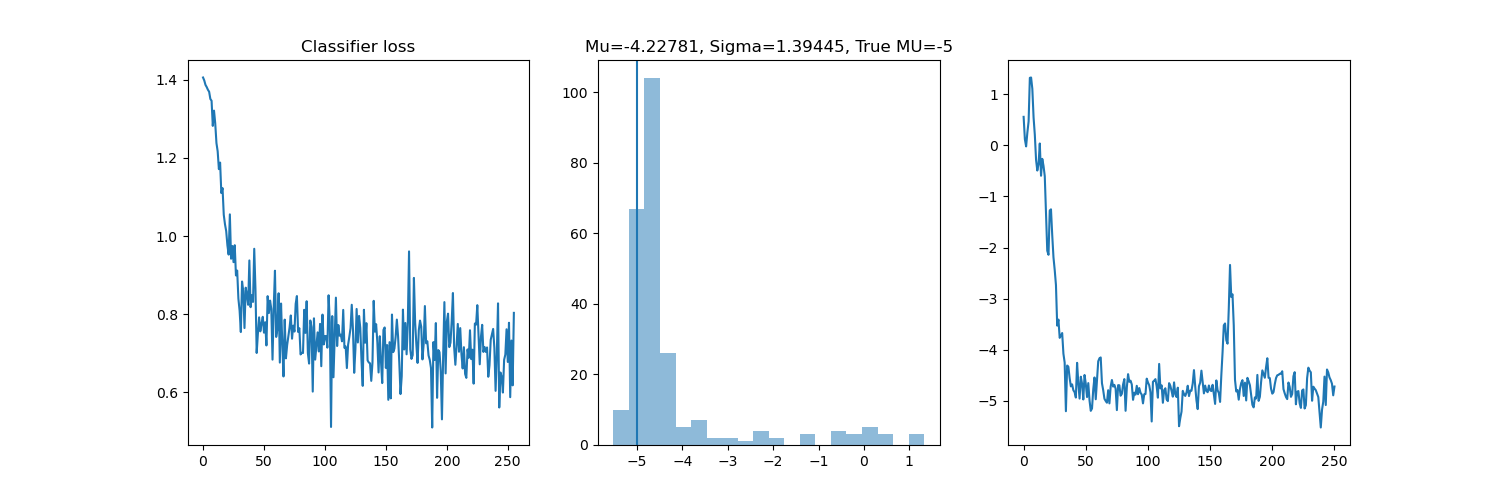
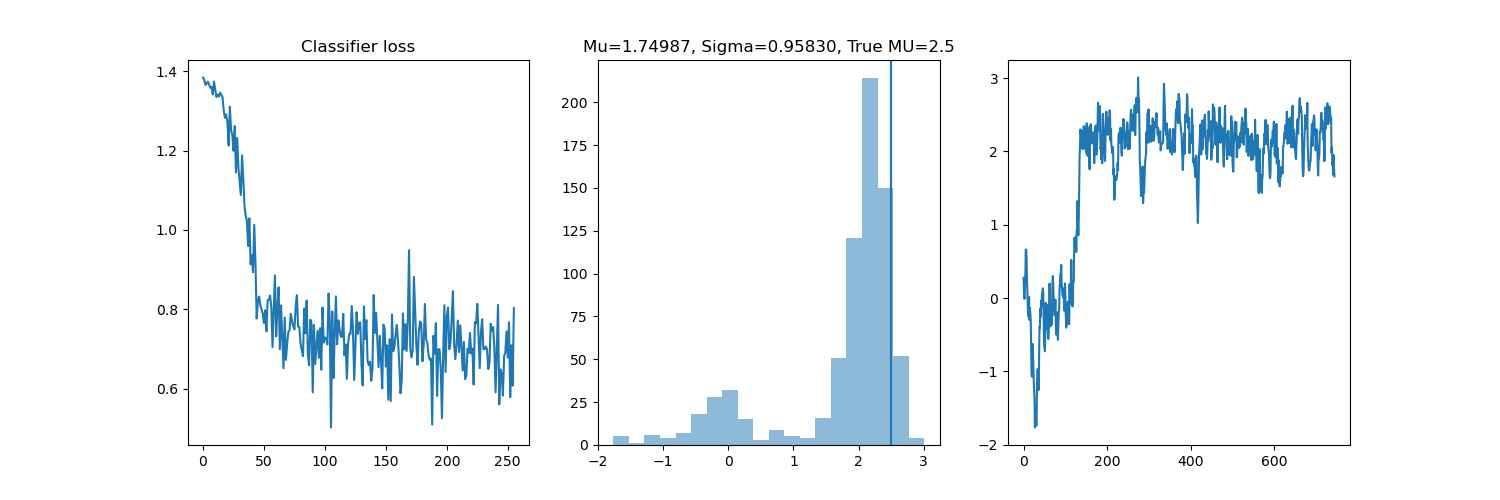
u: update

diff --git a/content/posts/sbi.md b/content/posts/sbi.md
@@ -3,8 +3,10 @@ title: Simulation Based Inference
 date : 2023-10-31
 tags : [sbi]
 draft: true
+categories: [
+    "Machine Learning",
+    ]
 ---
-
 
 
 ## Simulation Based Inference
@@ -16,15 +18,15 @@ In this context, the machine is called a simulator, the configuration is called 
 
 
 ### Problem setup
-There are four components in the problem of **Simulation Based Inference** (SBI), namely the simulator, the parameters, the latent variables, and the observations. The simulator implicitly define the statistical model \\(p(x | \theta) = \int_z\\)
+There are four components in the problem of **SBI**, namely the simulator, the parameters, the latent variables, and the observations. The simulator implicitly define the statistical model \\(p(x | \theta) = \int_z{p(x, z | \theta) dz}\\), this quantity not just intractable but also unknown.
 
 
-## Likelihood Ratio Estimation
+## Likelihood-free MCMC with Amortized Ratio Estimator
 
 Likelihood ratio is defined as the ratio between the likelihood of the observation between two different hypothesis:
 
 $$
-r(x | \theta_0, \theta_1) = \frac{p(x | \theta_0)}{p(x|\theta_1)}
+r(x | \theta_0, \theta_1) = \frac{p(\mathbf{x} | \theta_0)}{p(\mathbf{x}|\theta_t)}
 $$
 
 This quantity then can be used in various methods to draw sample from a distribution. In the paper, the author mention three sampling methods, namely **Markov Chain Monte Carlo**, **Metropolis-Hasting**, and HMC. In the following section, I am briefly summarizing those methods.
@@ -33,17 +35,39 @@ This quantity then can be used in various methods to draw sample from a distribu
 
 #### Markov Chain Monte Carlo (MCMC)
 
-In MCMC sampling method, we assumed to have access to likelihood function \\(p(x)\\). To sample \\(x\\), we use a symmetric proposal distribution  \\( q(x_t | x_{t-1}) = q(x_{t-1} | x_t)\\)
+We want to sample from \\(p(\theta | \mathbf{x})\\) using MCMC, we need this quantity
+
+$$
+\begin{equation}
+\begin{aligned}
+    \frac{p(\theta | \mathbf{x} )}{p(\theta_t| \mathbf{x})} = 
+    \frac{
+        p(\theta)p(\mathbf{x} | \theta)/p(\mathbf{x})
+    }{
+        p(\theta_t)p(\mathbf{x} | \theta_t)/p(\mathbf{x})
+    } = 
+    \frac{p(\theta)}{p(\theta_t)}\times
+    \frac{p(\mathbf{x} | \theta)}{p(\mathbf{x} | \theta_t)}
+\end{aligned}
+\end{equation}
+$$
 
 
 #### Metropolis-Hasting (MH) 
 
 
-### Method
+### Likelihood Ratio Estimator 
 
 
 ### Toy example
+
+- Setup
+
+
+- Result
 ![img](/images/amcmc.png)
+
+
 
 ## Reference
 
